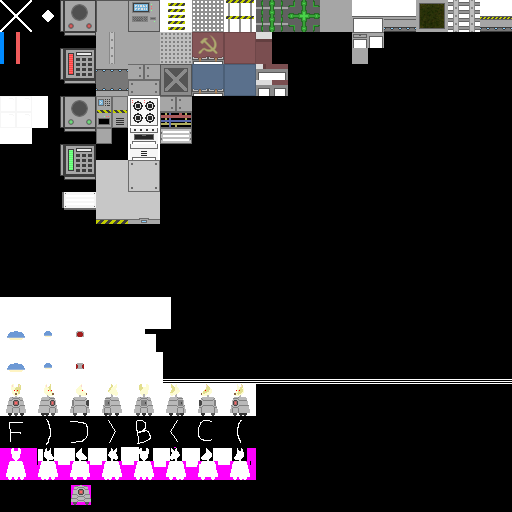
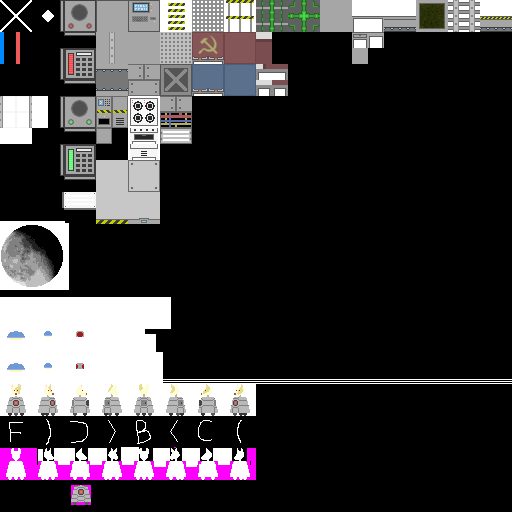
Adding a cool outside space backdrop visible through windows

Changed region(s): [[0.0, 0.4062, 0.1562, 0.5938], [0.0, 0.1875, 0.0625, 0.25]]

diff --git a/src/BORK_of_DOOM/map_area.c b/src/BORK_of_DOOM/map_area.c
@@ -296,6 +296,7 @@ struct bork_tile_detail BORK_TILE_DETAILS[] = {
                         BORK_FACE_HAS_SURFACE | BORK_FACE_FLUSH_SURFACE |
                             BORK_FACE_HAS_BACKFACE | BORK_FACE_SEETHRU_SURFACE |
                             BORK_FACE_TRAVEL_ORIENT_OPP, 0, 0 },
+        .face_inset = { 0.09375, 0.09375, 0.09375, 0.09375 },
         .tex_tile = { [PG_LEFT] = 48, [PG_RIGHT] = 48,
                       [PG_FRONT] = 48, [PG_BACK] = 48 },
         .add_model = tile_model_basic },
@@ -361,21 +362,6 @@ void bork_map_init_model(struct bork_map* map, struct bork_editor_map* ed_map,
     pg_model_rect_prism(&map->door_model, (vec3){ 1, 0.125, 1 }, face_uv);
     pg_model_precalc_ntb(&map->door_model);
     pg_shader_buffer_model(&core->shader_3d, &map->door_model);
-    /*  And the window model  */
-    pg_model_init(&map->window_model);
-    pg_texture_get_frame(&core->env_atlas, 48, face_uv[PG_FRONT]);
-    pg_texture_frame_flip(face_uv[PG_BACK], face_uv[PG_FRONT], 0, 1);
-    pg_texture_get_frame(&core->env_atlas, 48, face_uv[PG_TOP]);
-    pg_texture_frame_tx(face_uv[PG_TOP], face_uv[PG_TOP],
-                        (vec2){ 1, 0.125 }, (vec2){ 0, 32.0f / 512.0f });
-    pg_texture_frame_flip(face_uv[PG_BOTTOM], face_uv[PG_TOP], 0, 1);
-    pg_texture_get_frame(&core->env_atlas, 48, face_uv[PG_LEFT]);
-    pg_texture_frame_tx(face_uv[PG_LEFT], face_uv[PG_LEFT],
-                        (vec2){ 0.125, 1 }, (vec2){ 32.0f / 512.0f, 0 });
-    pg_texture_frame_flip(face_uv[PG_RIGHT], face_uv[PG_LEFT], 0, 1);
-    pg_model_rect_prism(&map->window_model, (vec3){ 1, 0.125, 1 }, face_uv);
-    pg_model_precalc_ntb(&map->window_model);
-    pg_shader_buffer_model(&core->shader_3d, &map->window_model);
     /*  And the recombobulator model  */
     pg_model_init(&map->recycler_model);
     pg_texture_get_frame(&core->env_atlas, 51, face_uv[PG_FRONT]);
@@ -489,6 +475,12 @@ void bork_map_init_model(struct bork_map* map, struct bork_editor_map* ed_map,
     pg_model_deinit(&tmp);
     pg_model_precalc_ntb(&map->pipes_model);
     pg_shader_buffer_model(&core->shader_3d, &map->pipes_model);
+    /*  The spacebox model  */
+    pg_model_init(&map->outside_model);
+    pg_model_cylinder(&map->outside_model, 32, (vec2){ 4, 4 });
+    pg_model_invert_tris(&map->outside_model);
+    pg_model_precalc_ntb(&map->outside_model);
+    pg_shader_buffer_model(&core->shader_3d, &map->outside_model);
     /*  Generate the map model  */
     pg_model_init(&map->model);
     bork_map_generate_model(map, ed_map, &core->env_atlas);
@@ -679,6 +671,19 @@ void bork_map_draw(struct bork_map* map, struct bork_play_data* d)
         mat4_mul_quat(model_transform, model_transform, obj->dir);
         pg_model_draw(&map->grate_model, model_transform);
     }
+    pg_model_begin(&map->outside_model, shader);
+    pg_shader_3d_texture(shader, &core->starfield_tex);
+    mat4_translate(model_transform, 32, 32, -256);
+    mat4_scale_aniso(model_transform, model_transform, 256, 256, 1025);
+    pg_model_draw(&map->outside_model, model_transform);
+    pg_model_begin(&core->gun_model, shader);
+    pg_shader_3d_texture(shader, &core->env_atlas);
+    pg_shader_3d_tex_frame(shader, 112);
+    pg_shader_3d_add_tex_tx(shader, (vec2){ 2, 2 }, (vec2){});
+    mat4_translate(model_transform, -32, -32, 32);
+    mat4_scale_aniso(model_transform, model_transform, 128, 128, 128);
+    mat4_rotate_Z(model_transform, model_transform, M_PI * 0.75);
+    pg_model_draw(&core->gun_model, model_transform);
     pg_shader_begin(&core->shader_text, NULL);
     pg_shader_text_3d(&core->shader_text, &core->view);
     ARR_FOREACH_PTR(map->texts, obj, i) {

diff --git a/src/BORK_of_DOOM/map_area.h b/src/BORK_of_DOOM/map_area.h
@@ -59,6 +59,11 @@ enum bork_tile_type {
     BORK_TILE_RAMP_BOTTOM, BORK_TILE_RAMP_TOP,
     BORK_TILE_PIPES,
     BORK_TILE_WINDOW,
+    BORK_TILE_PLACEHOLD_1,
+    BORK_TILE_PLACEHOLD_2,
+    BORK_TILE_PLACEHOLD_3,
+    BORK_TILE_PLACEHOLD_4,
+    BORK_TILE_PLACEHOLD_5,
     BORK_TILE_EDITOR_FIRE_LOW,
     BORK_TILE_EDITOR_FIRE_MID,
     BORK_TILE_EDITOR_FIRE_HIGH,
@@ -159,13 +164,13 @@ struct bork_map {
     ARR_T(struct pg_light) lights;
     ARR_T(struct pg_light) spotlights;
     struct pg_model door_model;
-    struct pg_model window_model;
     struct pg_model recycler_model;
     struct pg_model oven_model;
     struct pg_model bed_model;
     struct pg_model small_table_model;
     struct pg_model grate_model;
     struct pg_model pipes_model;
+    struct pg_model outside_model;
     struct bork_entity* plr;
 };
 

diff --git a/src/procgl/model.h b/src/procgl/model.h
@@ -88,6 +88,7 @@ void pg_model_add_triangle(struct pg_model* model, unsigned v0,
 void pg_model_append(struct pg_model* dst, struct pg_model* src,
                      mat4 transform);
 void pg_model_transform(struct pg_model* model, mat4 transform);
+void pg_model_invert_tris(struct pg_model* model);
 /*  Component generation    */
 void pg_model_precalc_normals(struct pg_model* model);
 void pg_model_precalc_ntb(struct pg_model* model);

diff --git a/src/procgl/model.c b/src/procgl/model.c
@@ -389,6 +389,17 @@ void pg_model_transform(struct pg_model* model, mat4 transform)
     }
 }
 
+void pg_model_invert_tris(struct pg_model* model)
+{
+    int i;
+    struct pg_tri* tri;
+    ARR_FOREACH_PTR(model->tris, tri, i) {
+        unsigned tmp = tri->t[0];
+        tri->t[0] = tri->t[1];
+        tri->t[1] = tmp;
+    }
+}
+
 /*  Component generation    */
 void pg_model_precalc_normals(struct pg_model* model)
 {
